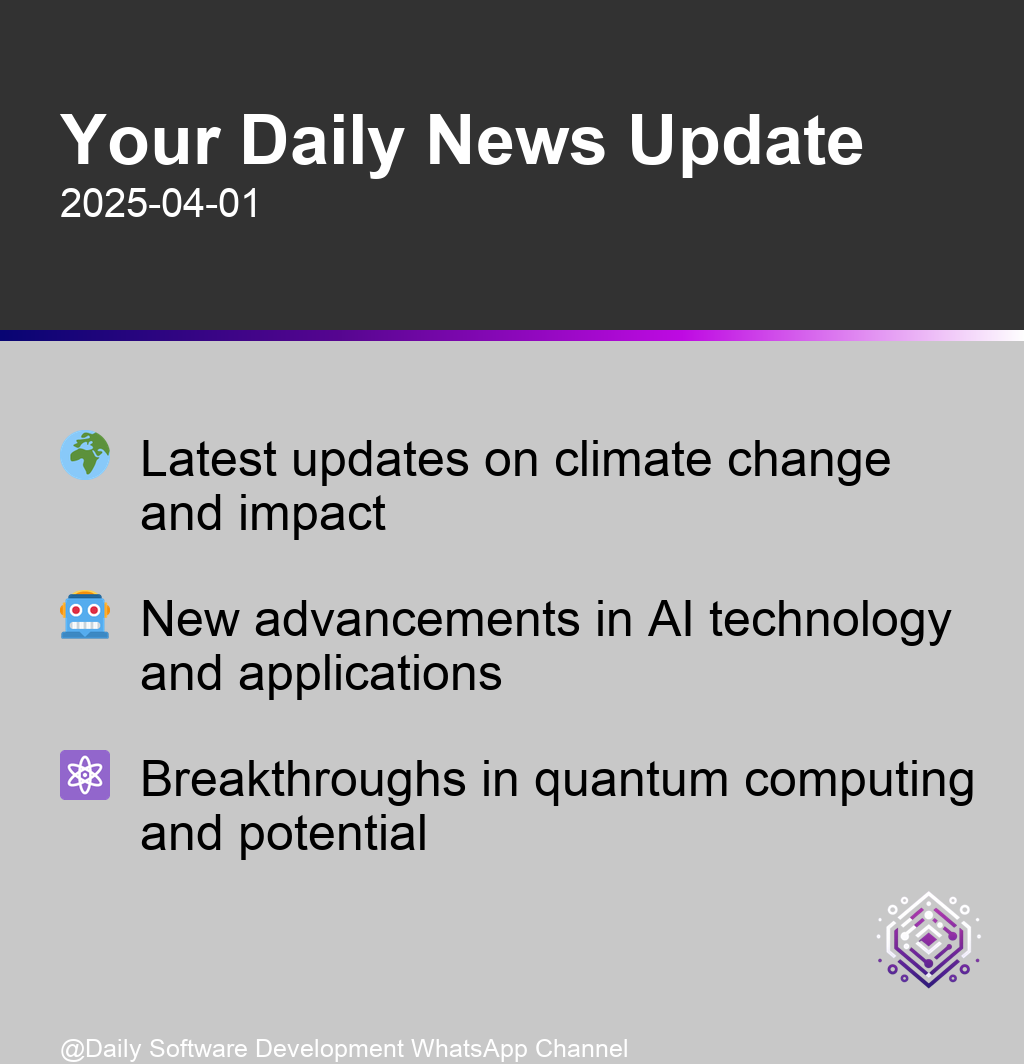
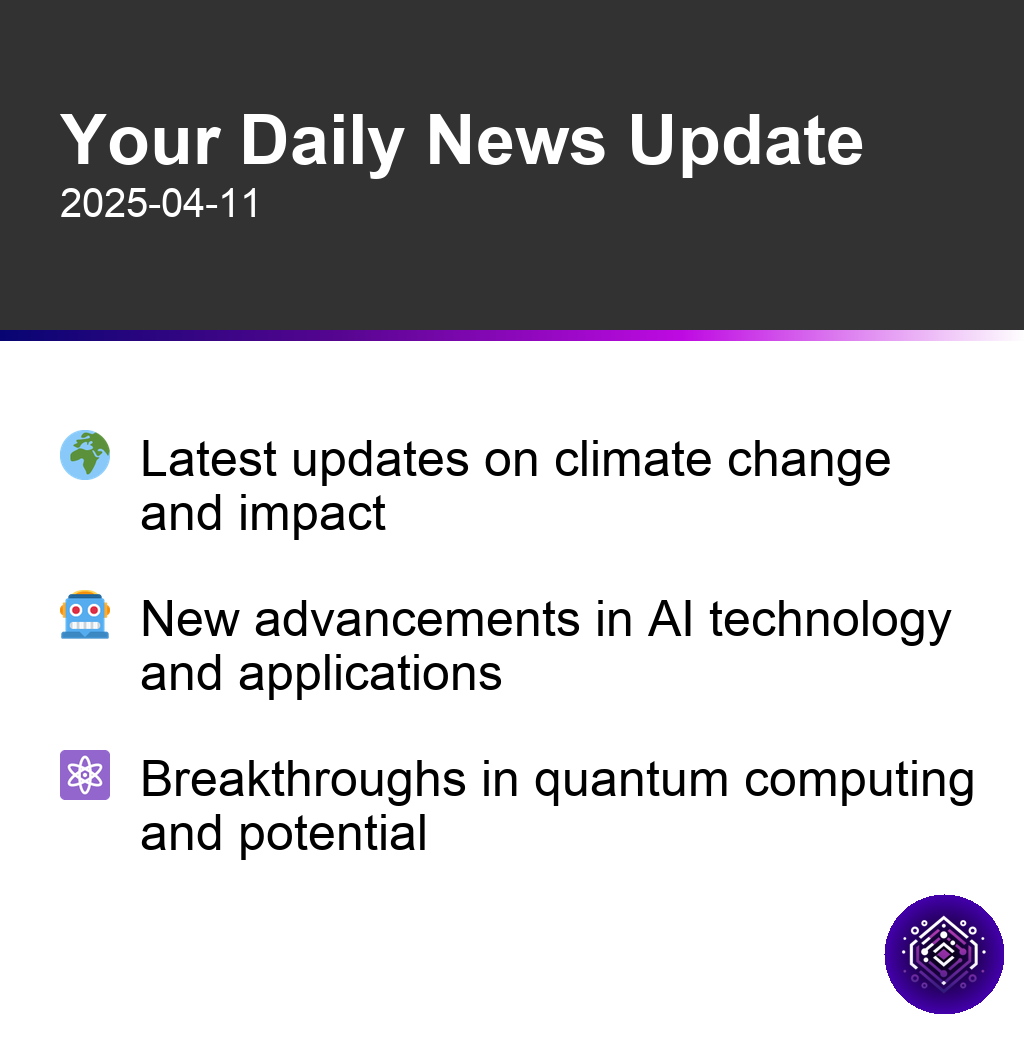
auto commit

diff --git a/src/buildPost/generate_image.py b/src/buildPost/generate_image.py
@@ -8,13 +8,13 @@ def create_image(news_topics, output_dir):
     logo_path = 'assets/logo_no_background.png'
     bold_font_path = "assets/arialBold.ttf"
     regular_font_path = "assets/arial.ttf"
-    
+
     img_size = 1024
     extra_top_padding = 40
     top_section_height = 330
     gradient_height = 10
     padding = 60
-    logo_size = 150
+    logo_size = 120
     headline_spacing = 160
 
     logo = Image.open(logo_path).resize((logo_size, logo_size))
@@ -24,7 +24,7 @@ def create_image(news_topics, output_dir):
 
     draw.rectangle(
         [(0, top_section_height + gradient_height), (img_size, img_size + extra_top_padding)],
-        fill=(200, 200, 200)
+        fill=(255, 255, 255)
     )
 
     gradient_colors = ["#080573", "#570691", "#bf0be3", "#ffffff"]
@@ -71,6 +71,25 @@ def create_image(news_topics, output_dir):
             )
 
     logo_position = (img_size - logo.width - padding + 40, img_size - logo.height - padding + 50)
+
+    # Create a fading circle behind the logo
+    circle_diameter = logo_size + 0
+    circle_radius = circle_diameter // 2
+    circle_center = (logo_position[0] + logo.width // 2, logo_position[1] + logo.height // 2)
+    for y in range(circle_diameter):
+        for x in range(circle_diameter):
+            dx = x - circle_radius
+            dy = y - circle_radius
+            distance = (dx**2 + dy**2)**0.5
+            if distance <= circle_radius:
+                fade_ratio = distance / circle_radius
+                r1, g1, b1 = (0, 0, 0)  # Black
+                r2, g2, b2 = (68, 0, 173)  # Purple
+                r = int(r1 + (r2 - r1) * fade_ratio)
+                g = int(g1 + (g2 - g1) * fade_ratio)
+                b = int(b1 + (b2 - b1) * fade_ratio)
+                draw.point((circle_center[0] - circle_radius + x, circle_center[1] - circle_radius + y), fill=(r, g, b))
+
     img.paste(logo, logo_position, logo)
 
     watermark_text = "@Daily Software Development WhatsApp Channel"

diff --git a/src/fetchContent/assign_icons.py b/src/fetchContent/assign_icons.py
@@ -8,7 +8,8 @@ load_dotenv()
 
 def choose_icons(news_topics: dict):
     for topic in news_topics:
-        topic["icon"] = choose_icon(topic["entry_sentence"])
+        #topic["icon"] = choose_icon(topic["entry_sentence"])
+        topic["icon"] = "🟣"
     return news_topics
 
 def choose_icon(summary: str) -> str:
